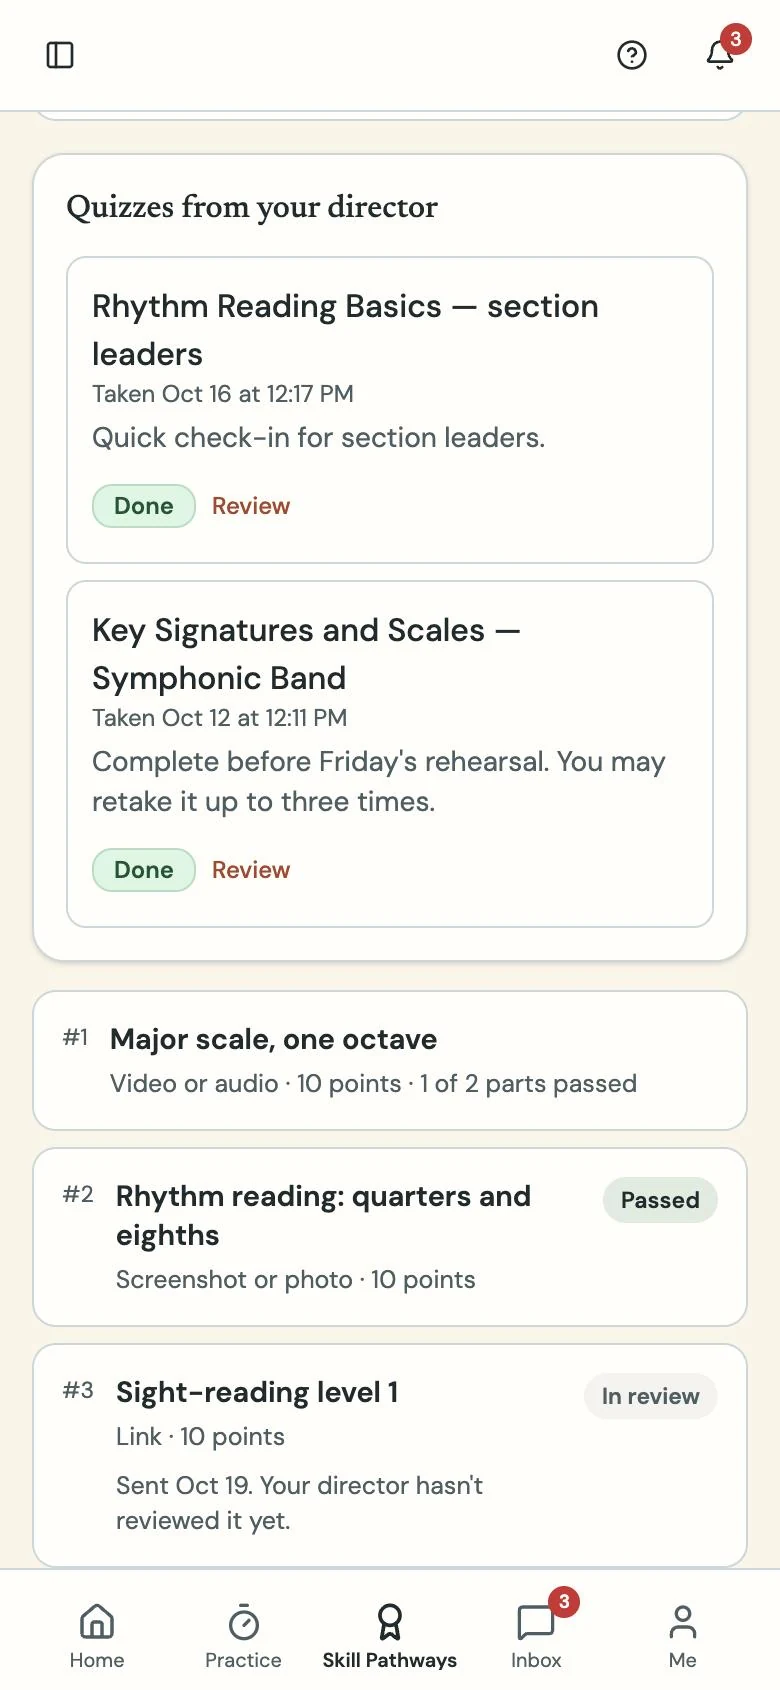
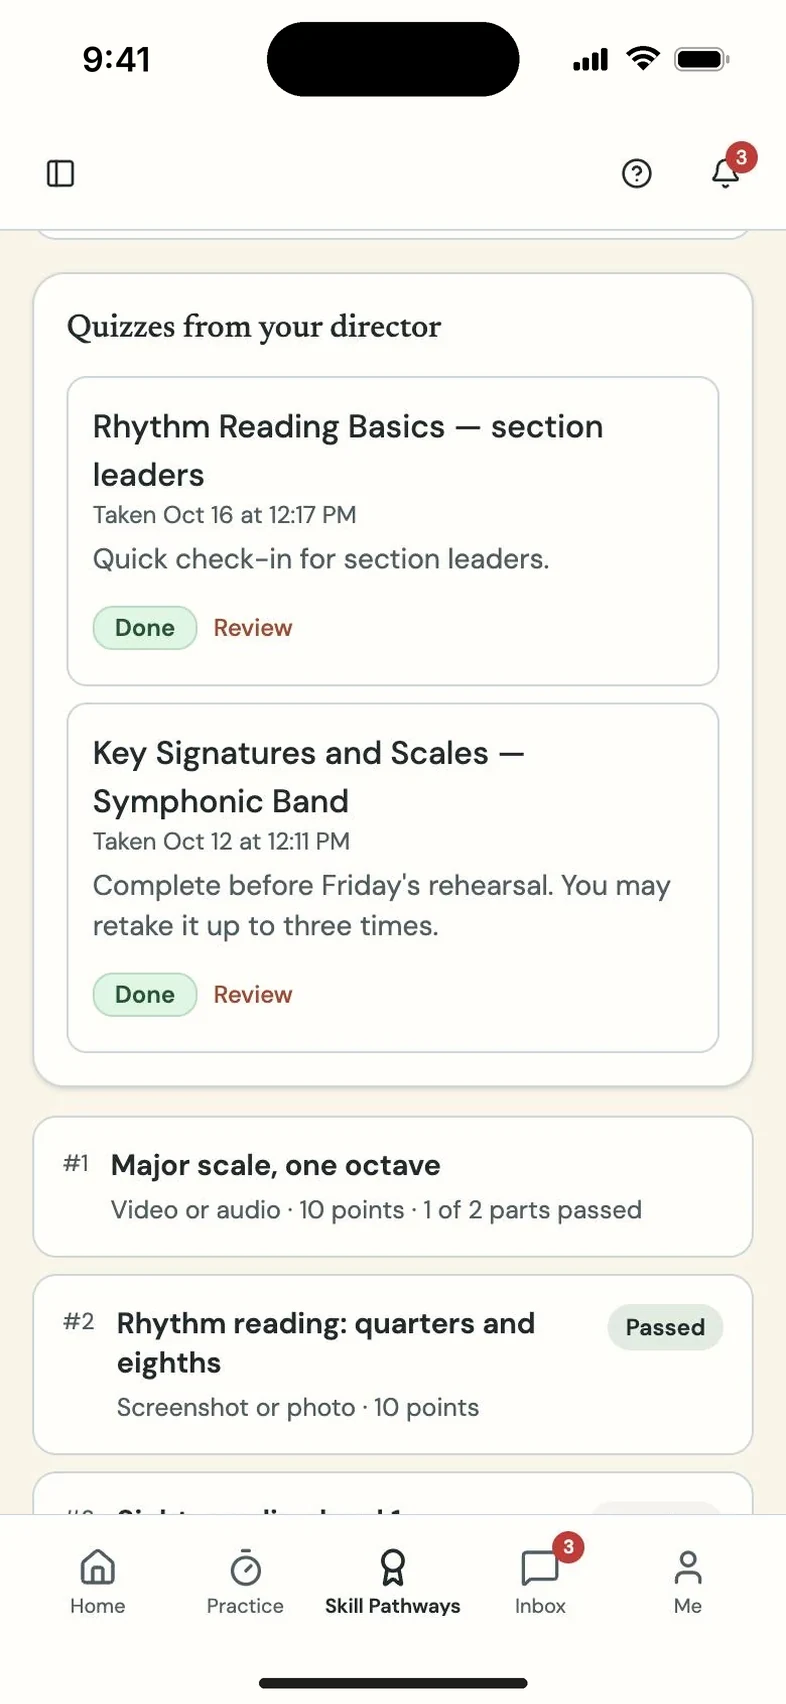
Real iPhone frame and screen previews for every feature
- Phone frame rebuilt to iPhone 15 Pro proportions: titanium edge, side buttons, rounded display
- Every phone screenshot now has the iPhone status bar, Dynamic Island and home indicator
- Tablet frame refined to match (thin bezel, aluminium edge, camera)
- Product page: all nine features get a screenshot, mixing band, orchestra, choir and theatre

Claude-Session: https://claude.ai/code/session_01Uda2aHsmeHDXD65ipYCZBZ

diff --git a/src/assets/site.css b/src/assets/site.css
@@ -166,10 +166,23 @@ button { font: inherit; }
 .frame-browser .bar span { width: 5px; height: 5px; border-radius: 50%; background: var(--border); }
 .frame-browser .screen { position: relative; aspect-ratio: 16 / 10; background: var(--card); }
 .frame-phone { align-items: center; }
-.frame-phone .device { width: 100%; max-width: var(--phone-max, 280px); background: var(--fg); border-radius: 34px; padding: 8px; outline: 1px solid rgb(249 245 232 / .2); box-shadow: 0 2px 4px rgb(28 41 44 / .08), 0 24px 48px -16px rgb(28 41 44 / .35); }
-.frame-phone .screen { position: relative; aspect-ratio: 9 / 19.5; border-radius: 27px; overflow: hidden; background: var(--card); }
-.frame-tablet .device { width: 100%; background: var(--fg); border-radius: 28px; padding: 14px; outline: 1px solid rgb(249 245 232 / .2); box-shadow: 0 2px 4px rgb(28 41 44 / .08), 0 24px 48px -16px rgb(28 41 44 / .35); }
-.frame-tablet .screen { position: relative; aspect-ratio: 1180 / 820; border-radius: 14px; overflow: hidden; background: var(--card); }
+/* iPhone 15 Pro proportions: 393 x 852 pt screen, 18 pt black border, 3 pt titanium band (435 x 894 overall).
+   Everything is in percentages of the device box, so it scales to any width. */
+.frame-phone .device { position: relative; width: 100%; max-width: var(--phone-max, 280px); aspect-ratio: 435 / 894; border-radius: 17.5% / 8.5%;
+  background: linear-gradient(100deg, #5f6164 0%, #b9bbbd 3%, #7d7f82 7%, #9a9c9f 50%, #7d7f82 93%, #b9bbbd 97%, #5f6164 100%);
+  box-shadow: 0 1px 2px rgb(28 41 44 / .12), 0 26px 50px -18px rgb(28 41 44 / .45), inset 0 0 0 1px rgb(255 255 255 / .18); }
+.frame-phone .device::before { content: ""; position: absolute; inset: .45% .92%; border-radius: 17% / 8.3%; background: #050506; box-shadow: inset 0 0 0 1px rgb(255 255 255 / .06); }
+.frame-phone .screen { position: absolute; top: 2.35%; bottom: 2.35%; left: 4.83%; right: 4.83%; border-radius: 14% / 6.45%; overflow: hidden; background: var(--card); z-index: 1; }
+.frame-phone .hw { position: absolute; width: 1.1%; border-radius: 2px; background: linear-gradient(90deg, #6a6c6f, #a9abad 50%, #6a6c6f); }
+.frame-phone .hw-action { left: -.7%; top: 15.5%; height: 3.6%; }
+.frame-phone .hw-vol-up { left: -.7%; top: 22%; height: 7%; }
+.frame-phone .hw-vol-down { left: -.7%; top: 31%; height: 7%; }
+.frame-phone .hw-side { right: -.7%; top: 25%; height: 11%; }
+/* iPad proportions to match: thin even border, aluminium edge, front camera on the long edge */
+.frame-tablet .device { position: relative; width: 100%; padding: 2.4%; border-radius: 4.2% / 6%; background: #08090a;
+  box-shadow: inset 0 0 0 2px #a7a9ac, inset 0 0 0 3px #4b4d50, 0 1px 2px rgb(28 41 44 / .12), 0 26px 50px -18px rgb(28 41 44 / .45); }
+.frame-tablet .device::before { content: ""; position: absolute; top: 1.6%; left: 50%; width: .7%; aspect-ratio: 1; transform: translate(-50%, -50%); border-radius: 50%; background: #1c2a33; box-shadow: inset 0 0 0 1px #2b3a44; }
+.frame-tablet .screen { position: relative; aspect-ratio: 1180 / 820; border-radius: 1.6% / 2.3%; overflow: hidden; background: var(--card); }
 .frame .screen img, .frame .screen video { position: absolute; inset: 0; width: 100%; height: 100%; object-fit: cover; object-position: top left; }
 .frame .screen .shot-d { display: none; }
 [data-shot-theme="dark"] .frame .screen .shot-l { display: none; }

diff --git a/tools/iphone.py b/tools/iphone.py
@@ -1,0 +1,145 @@
+"""Kept in the repo so phone screenshots can be redone the same way. Needs Pillow, numpy and the Inter font."""
+"""Turn raw 390x845 phone captures into iPhone 15-proportioned screens (393x852 pt at 2x = 786x1704 px)
+with a real status bar (9:41, signal, Wi-Fi, battery), Dynamic Island and home indicator.
+
+The app's own header stays at the top under the status bar. To make room, 59 pt of scrolling content is
+removed just above the bottom tab bar (or above a pinned footer), which is what you'd see on a real phone.
+
+usage: iphone.py SRC_DIR OUT_DIR name [name ...]
+"""
+import sys, os
+import numpy as np
+from PIL import Image, ImageDraw, ImageFont
+
+W, H = 786, 1704          # 393 x 852 pt at 2x
+SB = 118                  # status bar / safe area, 59 pt
+BOT = 68                  # home indicator safe area, 34 pt
+S4 = 4                    # supersample factor for vector bits (drawn at 4x of pt)
+FONT = '/usr/share/fonts/opentype/inter/Inter-SemiBold.otf'
+
+# Per-shot overrides: where to remove rows (normalized px). Default: just above a detected bottom bar.
+CUT_AT = {
+    'feature-forms-phone': 1250,
+    'home-hero-theatre-phone': 1250,
+    'home-hero-theatre-phone-dark': 1250,
+    'forms-how-1': 1280,
+    'woodshed-hero-phone': 1500,
+    'home-woodshed': 1500,
+    'woodshed-share': 1420,
+    'home-fam-student': 1464,
+}
+
+def luminance(rgb):
+    r, g, b = [c / 255 for c in rgb]
+    return 0.2126 * r + 0.7152 * g + 0.0722 * b
+
+def find_bottom_bar(a):
+    """Top y of a bottom tab bar: a full-width hairline in the bottom 240 px with a uniform band under it."""
+    h = a.shape[0]
+    rows = a.astype(np.int16)
+    for y in range(h - 70, h - 240, -1):
+        line = rows[y]
+        below = rows[y + 3:y + 12]
+        above = rows[y - 6:y - 2]
+        if line.std(axis=0).mean() < 4 and abs(line.mean() - below.mean()) > 4 and below.std(axis=0).mean() < 30:
+            # hairline must differ from both sides and the band below must be the bar background
+            if abs(line.mean() - above.mean()) > 3:
+                return y
+    return None
+
+def glyph_layer(dark_text, width_pt=393, height_pt=59):
+    """Status bar glyphs + island drawn at 4x, returned at 2x RGBA (W x SB)."""
+    k = S4
+    img = Image.new('RGBA', (width_pt * k, height_pt * k), (0, 0, 0, 0))
+    d = ImageDraw.Draw(img)
+    ink = (0, 0, 0, 255) if dark_text else (255, 255, 255, 255)
+    faint = (0, 0, 0, 90) if dark_text else (255, 255, 255, 100)
+    cy = (11 + 37 / 2) * k  # island centre line
+
+    # Dynamic Island: 126 x 37 pt, 11 pt from the top
+    iw, ih = 126 * k, 37 * k
+    ix = (width_pt * k - iw) / 2
+    d.rounded_rectangle([ix, 11 * k, ix + iw, 11 * k + ih], radius=ih / 2, fill=(0, 0, 0, 255))
+
+    # Time
+    f = ImageFont.truetype(FONT, int(17 * k))
+    t = '9:41'
+    bb = d.textbbox((0, 0), t, font=f)
+    tw, th = bb[2] - bb[0], bb[3] - bb[1]
+    d.text((58 * k - tw / 2 - bb[0], cy - th / 2 - bb[1]), t, font=f, fill=ink)
+
+    # Battery (right edge at 365 pt)
+    bx1 = 362 * k; bw, bh = 25 * k, 12 * k
+    bx0 = bx1 - bw; by0 = cy - bh / 2
+    d.rounded_rectangle([bx0, by0, bx1, by0 + bh], radius=4 * k, outline=faint, width=int(1 * k))
+    pad = 2 * k
+    d.rounded_rectangle([bx0 + pad, by0 + pad, bx1 - pad, by0 + bh - pad], radius=2.5 * k, fill=ink)
+    d.rounded_rectangle([bx1 + 1 * k, cy - 2 * k, bx1 + 2.5 * k, cy + 2 * k], radius=1 * k, fill=faint)
+
+    # Wi-Fi: three wedges plus the tip, built on a mask
+    wx = bx0 - 7 * k - 8.5 * k  # centre x
+    base = cy + 5.5 * k         # point of the fan
+    m = Image.new('L', img.size, 0)
+    md = ImageDraw.Draw(m)
+    radii = [12 * k, 8 * k, 4.2 * k]
+    for i, r in enumerate(radii):
+        md.pieslice([wx - r, base - r, wx + r, base + r], 225, 315, fill=255)
+        if i < 2:
+            r2 = r - 2.4 * k
+            md.pieslice([wx - r2, base - r2, wx + r2, base + r2], 225, 315, fill=0)
+    img.paste(Image.new('RGBA', img.size, ink), (0, 0), m)
+
+    # Cellular: four bars, bottom aligned
+    sx1 = wx - 12 * k - 6 * k
+    bars = [4, 6.3, 8.7, 11]
+    bwid, gap = 3 * k, 1.6 * k
+    x = sx1 - (4 * bwid + 3 * gap)
+    bottom = cy + 5.5 * k
+    for hgt in bars:
+        d.rounded_rectangle([x, bottom - hgt * k, x + bwid, bottom], radius=0.9 * k, fill=ink)
+        x += bwid + gap
+
+    return img.resize((W, SB), Image.LANCZOS)
+
+def home_indicator(dark):
+    k = S4
+    img = Image.new('RGBA', (393 * k, 21 * k), (0, 0, 0, 0))
+    d = ImageDraw.Draw(img)
+    col = (0, 0, 0, 225) if dark else (255, 255, 255, 235)
+    x0 = (393 - 134) / 2 * k
+    d.rounded_rectangle([x0, 8 * k, x0 + 134 * k, 13 * k], radius=2.5 * k, fill=col)
+    return img.resize((W, 42), Image.LANCZOS)
+
+def compose(src, name):
+    im = Image.open(src).convert('RGB')
+    im = im.resize((W, round(im.height * W / im.width)), Image.LANCZOS)
+    a = np.asarray(im)
+    need = im.height - (H - SB - BOT)  # rows to remove
+    if name in CUT_AT:
+        cut = CUT_AT[name]
+    else:
+        bar = find_bottom_bar(a)
+        cut = (bar if bar else im.height) - need
+    top = im.crop((0, 0, W, cut))
+    bottom = im.crop((0, cut + need, W, im.height))
+    content = Image.new('RGB', (W, H - SB - BOT))
+    content.paste(top, (0, 0)); content.paste(bottom, (0, top.height))
+    ca = np.asarray(content)
+    foot_rgb = tuple(int(c) for c in ca[-6:-2, :, :].reshape(-1, 3).mean(axis=0))
+
+    head = a[2:8, :, :].reshape(-1, 3).mean(axis=0)
+    head_rgb = tuple(int(c) for c in head)
+    out = Image.new('RGB', (W, H), head_rgb)
+    out.paste(content, (0, SB))
+    out.paste(Image.new('RGB', (W, BOT), foot_rgb), (0, H - BOT))
+    out = out.convert('RGBA')
+    out.alpha_composite(glyph_layer(luminance(head_rgb) > 0.5), (0, 0))
+    out.alpha_composite(home_indicator(luminance(foot_rgb) > 0.5), (0, H - 42))
+    return out.convert('RGB'), cut
+
+if __name__ == '__main__':
+    src_dir, out_dir = sys.argv[1], sys.argv[2]
+    for n in sys.argv[3:]:
+        img, cut = compose(os.path.join(src_dir, n + '.webp'), n)
+        img.save(os.path.join(out_dir, n + '.webp'), 'WEBP', quality=88, method=6)
+        print(n, 'cut at', cut)

diff --git a/README.md b/README.md
@@ -38,7 +38,7 @@ Slot names: open any built page and look for `class="placeholder"` — the text 
 - Families: `families-hero-browser`, `families-hero-phone`
 - Woodshed: `woodshed-hero-browser`, `woodshed-hero-phone`, `woodshed-create`, `woodshed-share`, `woodshed-practice`, `woodshed-linked`
 
-Browser frames are 16:10, tablet frames 1180×820, phone frames 9:19.5. Anything else is cropped from the top-left.
+Browser frames are 16:10, tablet frames 1180×820, phone frames iPhone 15 shape (393×852, so 786×1704 at 2×). Phone shots already include the iPhone status bar, Dynamic Island and home indicator (`tools/iphone.py` adds them to a raw 390-wide capture); the frame adds the titanium edge and buttons. Anything else is cropped from the top-left.
 
 Two extras:
 
